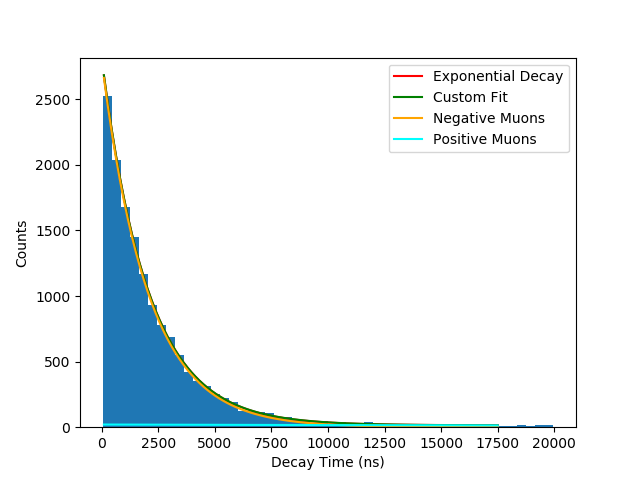
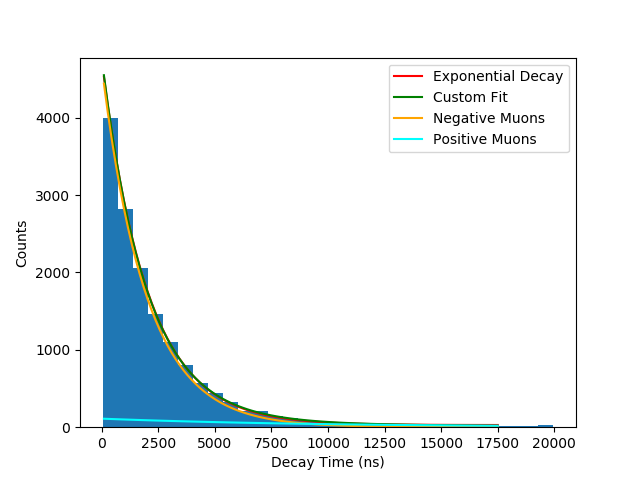
Adjusted Parameters

diff --git a/muon.py b/muon.py
@@ -28,18 +28,18 @@ def neg_muons(t,A_neg,tau_0,tau_c,A_pos,C):
 def pos_muons(t,A_neg,tau_0,tau_c,A_pos,C):
 	return A_pos*np.exp(-t/tau_0)
 
-counts, bin_edges, _ = plt.hist(data,bins=50)
+counts, bin_edges, _ = plt.hist(data,bins=30)
 time = []
 for i in range(len(bin_edges)-1):
 	time.append((bin_edges[i]+bin_edges[i+1])/2.)
-popt_exp, pcov_exp = curve_fit(exponential_decay, time, counts, p0=(1, 2000, 1),bounds=((0,1800,0),(np.inf,2400,np.inf)))
+popt_exp, pcov_exp = curve_fit(exponential_decay, time, counts, p0=(1, 2000, 1),bounds=((0,2000,0),(np.inf,2400,np.inf)))
 popt_custom, pcov_custom = curve_fit(custom_fit, 
 					time, 
 					counts, 
 					p0=(15, 2200, 2000, popt_exp[0]/2, popt_exp[2]),
 					bounds=(
-						(0, 2000, 1800, 0, -np.inf), 
-						(np.inf, 2400, 2200, np.inf, np.inf)))
+						(0, 0, 0, 0, -np.inf), 
+						(np.inf, np.inf, np.inf, np.inf, np.inf)))
 
 x_fit = np.linspace(100, 17500, 100)
 y_exp_fit = exponential_decay(x_fit, *popt_exp)

diff --git a/pull_data.py b/pull_data.py
@@ -43,6 +43,7 @@ def pull_data():
     time_length_of_decay = []
     time_of_occurance = []
     
+    print("Number of files: " + str(len(glob.glob("Data/*.data"))))
     for filename in glob.glob("Data/*.data"):    
         file = np.loadtxt(filename)
         for i in range(len(file[:,0])):
@@ -52,8 +53,8 @@ def pull_data():
     
     return time_length_of_decay, time_of_occurance
 
-time_length_of_decay, time_of_occurance = pull_data()
+# time_length_of_decay, time_of_occurance = pull_data()
 # The above command calls the function.
 
-np.savetxt("data.txt",[time_length_of_decay,time_of_occurance])
+# np.savetxt("data.txt",[time_length_of_decay,time_of_occurance])
 # The above command saves the output to a file called "data.txt".
